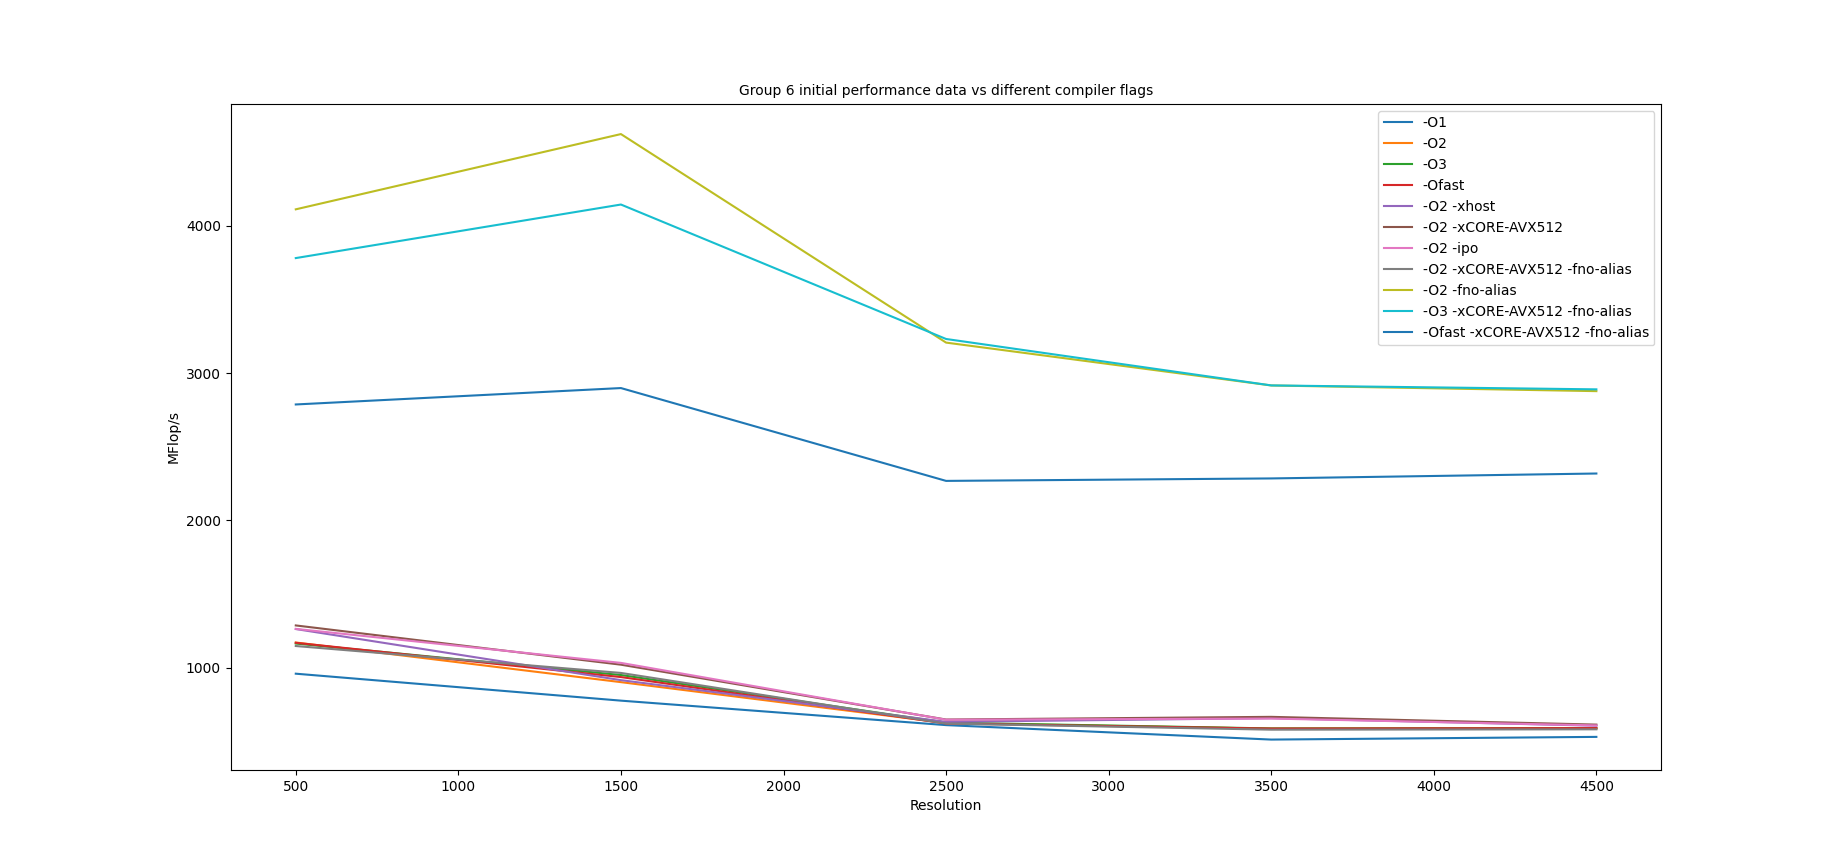
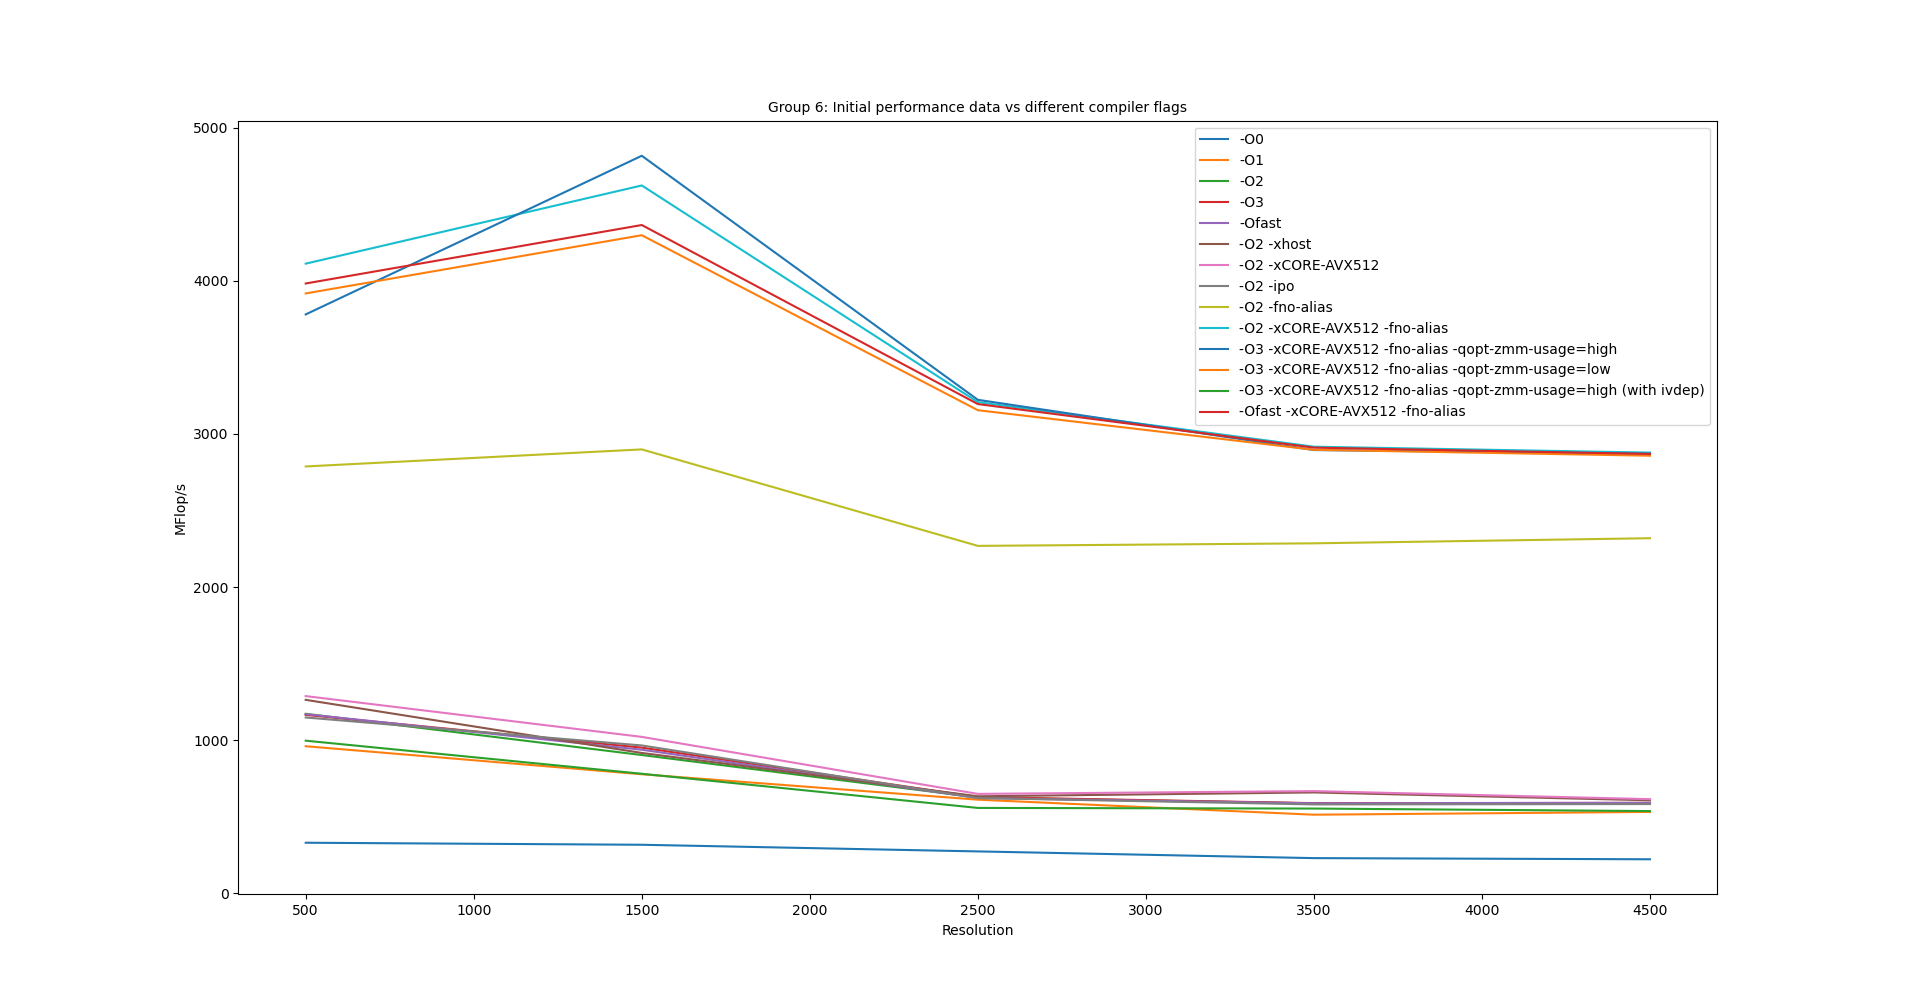
Final graph1 with ivdep

diff --git a/heatdir/graph1_post_process.py b/heatdir/graph1_post_process.py
@@ -24,7 +24,7 @@ lines = file1.readlines()
 # 13        "CFLAGS = -O3 -xCORE-AVX512 -ipo -qopt-zmm-usage=high -qopt-report-annotate -qopt-report-phase=vec,loop"
 # 14        "CFLAGS = -O3 -ipo -qopt-zmm-usage=high -qopt-report-annotate -qopt-report-phase=vec,loop"
 # 15 %       "CFLAGS = -O3 -xCORE-AVX512 -fno-alias -qopt-zmm-usage=high -qopt-report-annotate -qopt-report-phase=vec,loop"
-# 16        "CFLAGS = -O3 -xCORE-AVX512 -fno-alias -qopt-report-annotate -qopt-report-phase=vec,loop"
+# 16 %       "CFLAGS = -O3 -xCORE-AVX512 -fno-alias -qopt-report-annotate -qopt-report-phase=vec,loop"
 # 17        "CFLAGS = -O3 -fno-alias -qopt-report-annotate -qopt-report-phase=vec,loop"
 # 18        "CFLAGS = -Ofast -xhost -qopt-report-annotate -qopt-report-phase=vec,loop"
 # 19        "CFLAGS = -Ofast -xCORE-AVX512 -qopt-zmm-usage=high -qopt-report-annotate -qopt-report-phase=vec,loop"
@@ -34,11 +34,12 @@ lines = file1.readlines()
 # 23 %       "CFLAGS = -Ofast -xCORE-AVX512 -fno-alias -qopt-zmm-usage=high -qopt-report-annotate -qopt-report-phase=vec,loop"
 # 24        "CFLAGS = -Ofast -fno-alias -qopt-report-annotate -qopt-report-phase=vec,loop"
 # 25 %      "CFLAGS = -O0"
-# 26         "CFLAGS = -O3 -xCORE-AVX512 -qopt-zmm-usage=high -qopt-report-annotate -qopt-report-phase=vec,loop]"
+# 26         "CFLAGS = -O3 -xCORE-AVX512 -qopt-zmm-usage=high -qopt-report-annotate -qopt-report-phase=vec,loop"
+# 27 %        "CFLAGS = -O3 -xCORE-AVX512 -qopt-zmm-usage=high -qopt-report-annotate -qopt-report-phase=vec,loop] with ivdep"
 
-idx_to_keep = [0,1,2,3,4,5,7,8,10,15,23,25]
+idx_to_keep = [25,0,1,2,3,4,5,7,10,8,15,16,27, 23]
 
-tags_kept = ['-O1','-O2','-O3','-Ofast','-O2 -xhost','-O2 -xCORE-AVX512','-O2 -ipo','-O2 -xCORE-AVX512 -fno-alias','-O2 -fno-alias','-O3 -xCORE-AVX512 -fno-alias','-Ofast -xCORE-AVX512 -fno-alias', '-O0']
+tags_kept = ['-O0', '-O1','-O2','-O3','-Ofast','-O2 -xhost','-O2 -xCORE-AVX512','-O2 -ipo','-O2 -fno-alias','-O2 -xCORE-AVX512 -fno-alias','-O3 -xCORE-AVX512 -fno-alias -qopt-zmm-usage=high','-O3 -xCORE-AVX512 -fno-alias -qopt-zmm-usage=low' ,'-O3 -xCORE-AVX512 -fno-alias -qopt-zmm-usage=high (with ivdep)','-Ofast -xCORE-AVX512 -fno-alias']
 
 count = 0
 tags = []
@@ -64,7 +65,7 @@ plt.figure(figsize=(30,15))
 plt.xlabel('Resolution', fontsize = "10")
 plt.ylabel('MFlop/s', fontsize = "10")
 plt.title('Group 6: Initial performance data vs different compiler flags', fontsize = "10")
-for i,tag in enumerate(tags_kept):
-    plt.plot(resolution, MFlops[:,i], label = tag)
+for i,tag in enumerate(idx_to_keep):
+    plt.plot(resolution, MFlops[:,tag], label = tags_kept[i])
     plt.legend(loc = "upper right", fontsize = "10")
 plt.show()
